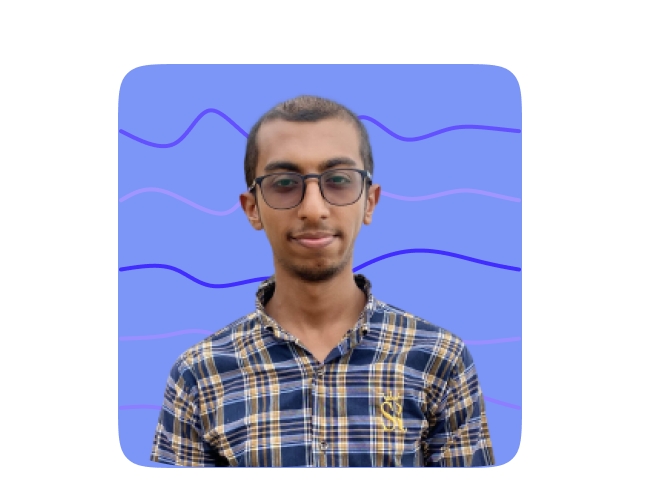
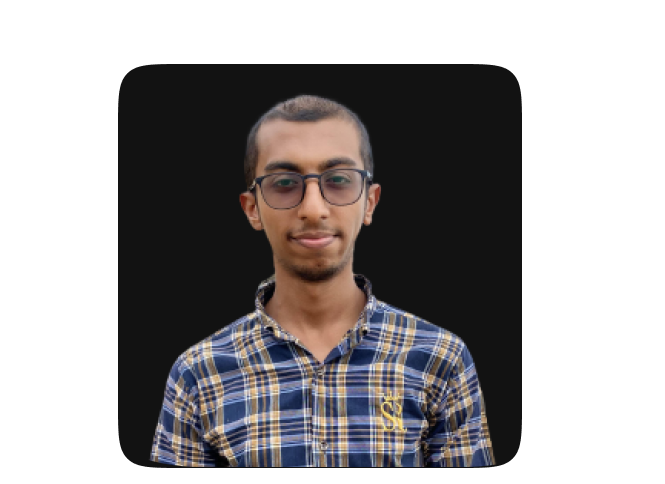
hero section is done

Changed region(s): [[0.1805, 0.124, 0.782, 0.9917]]

diff --git a/assets/css/style.css b/assets/css/style.css
@@ -40,6 +40,10 @@ header {
     border-radius: 8px;
     cursor: pointer;
     transition: 0.4s background-color, border;
+    font-style: normal;
+    font-weight: 500;
+    font-size: 24px;
+    line-height: 38px;
 }
 
 .btn-primary {
@@ -165,9 +169,18 @@ header ul.float-right>li:hover {
     color: var(--secondary-color);
 }
 
+main {
+    padding: 0px 32px 0px 32px;
+}
+
 .hero {
     flex-direction: row;
+    justify-content: space-between;
     margin-top: 141px;
+}
+
+.hero-details-section {
+    max-width: min(50%, 800px);
 }
 
 .hero-subtitle {
@@ -211,9 +224,9 @@ header ul.float-right>li:hover {
     column-gap: 16px;
 }
 
-.profile {
-    max-width: 665px;
-    max-height: 468px;
+img.profile {
+    width: 100%;
+    height: 100%;
 }
 
 .bg-primary {
@@ -229,7 +242,7 @@ header ul.float-right>li:hover {
     height: 52px;
 }
 
-.circle-lg {
+.circle-md {
     width: 89px;
     height: 89px;
 }
@@ -240,6 +253,7 @@ header ul.float-right>li:hover {
 
 .profile-section {
     position: relative;
+    filter: drop-shadow(2px 4px 64px rgba(108, 99, 255, 0.32));
 }
 
 .profile-section div {
@@ -247,5 +261,71 @@ header ul.float-right>li:hover {
 }
 
 .profile-section div.left-top {
-    left: 10px;
+    top: 30px;
+    left: 90px;
+    z-index: -1;
+}
+
+.profile-section div.right-top {
+    top: 74px;
+    right: 95px;
+    z-index: -1;
+}
+
+.profile-section div.right-bottom {
+    bottom: -15px;
+    right: 95px;
+    z-index: -1;
+}
+
+.arrow {
+    width: 130px;
+    height: 130px;
+    left: -700px;
+    top: 375px;
+    transform: rotate(156.62deg);
+}
+
+.students {
+    position: absolute;
+    background-color: var(--white-color);
+    width: 235.77px;
+    height: 146px;
+    padding: 22px;
+    border-radius: 32px;
+    text-align: center;
+    display: flex;
+    flex-direction: column;
+    justify-content: center;
+    align-items: center;
+    left: 57px;
+    bottom: 290px;
+}
+
+.students p {
+    font-style: normal;
+    font-weight: 400;
+    font-size: 24px;
+    line-height: 38px;
+    text-align: center;
+    margin-bottom: 16px;
+}
+
+.students span {
+    font-style: normal;
+    font-weight: 400;
+    font-size: 24px;
+    line-height: 38px;
+    margin-right: 16px;
+}
+
+.student-profiles {
+    display: grid;
+    grid-template-columns: repeat(5, 28px) !important;
+}
+
+.students .student-profile {
+    width: 35px;
+    height: 35px;
+    border-radius: 50%;
 }

diff --git a/index.html b/index.html
@@ -34,8 +34,10 @@
                 </li>
             </ul>
         </nav>
+    </header>
+    <main>
         <section class="hero d-flex">
-            <div>
+            <div class="hero-details-section">
                 <p class="hero-subtitle">ســــلــااام، مــن</p>
                 <p class="hero-title">
                     ادریس رنجبــر&nbsp;
@@ -51,12 +53,27 @@
             <div class="profile-section">
                 <img src="assets/images/profile.png" alt="ادریس رنجبر" class="profile">
                 <div class="circle-sm bg-primary rounded-circle left-top"></div>
-                <div class="circle-md bg-orange rounded-circle right-top"></div>
+                <div class="circle-sm bg-orange rounded-circle right-top"></div>
                 <div class="circle-md bg-orange rounded-circle right-bottom"></div>
             </div>
+            <div class="students">
+                <p>کارآموزان دوره ها</p>
+                <div class="d-flex">
+                    <div class="student-profiles">
+                        <img src="assets/images/student1.jpg" class="student-profile">
+                        <img src="assets/images/student2.jpg" class="student-profile">
+                        <img src="assets/images/student3.jpg" class="student-profile">
+                        <img src="assets/images/student4.jpg" class="student-profile">
+                        <img src="assets/images/student5.jpg" class="student-profile">
+                    </div>
+                    <span style="direction: ltr;">+10</span>
+                </div>
+            </div>
         </section>
-    </header>
-    <main></main>
+        <section class="d-flex justify-content-center">
+            <img src="assets/images/arrow.svg" class="arrow">
+        </section>
+    </main>
     <footer></footer>
     <script src="assets/js/script.js"></script>
 </body>
